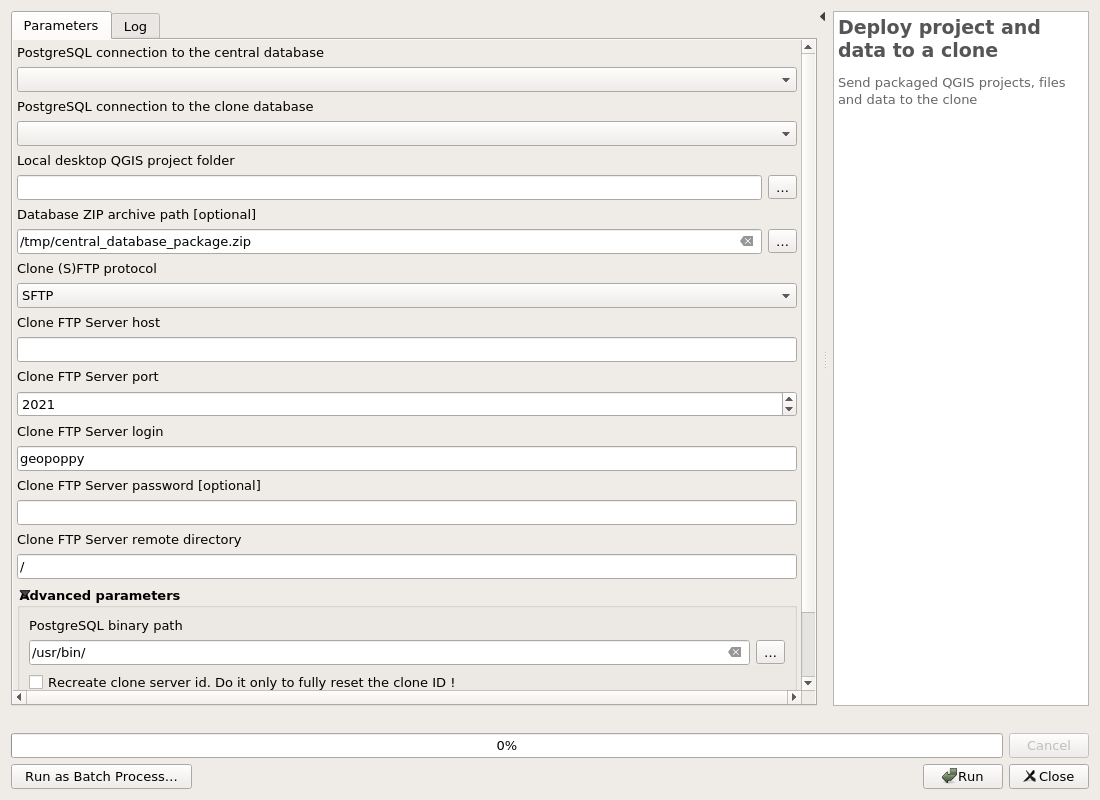
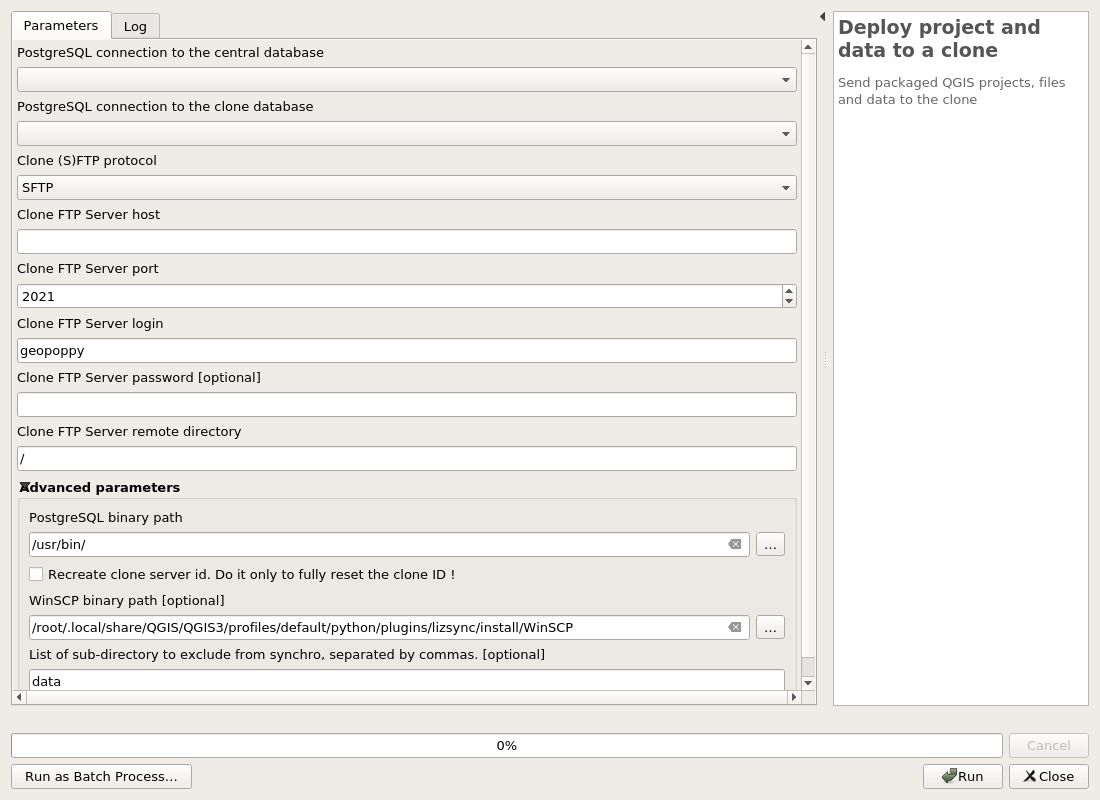
Deploy all - Use the current project instead of asking for the directory & zip paths

diff --git a/lizsync/processing/algorithms/deploy_all.py b/lizsync/processing/algorithms/deploy_all.py
@@ -14,7 +14,7 @@ __date__ = '2018-12-19'
 __copyright__ = '(C) 2018 by 3liz'
 
 import os
-import tempfile
+
 from platform import system as psys
 
 from qgis.core import (
@@ -50,9 +50,7 @@ class DeployAll(BaseProcessingAlgorithm):
     CONNECTION_NAME_CLONE = 'CONNECTION_NAME_CLONE'
 
     POSTGRESQL_BINARY_PATH = 'POSTGRESQL_BINARY_PATH'
-    LOCAL_QGIS_PROJECT_FOLDER = 'LOCAL_QGIS_PROJECT_FOLDER'
     RECREATE_CLONE_SERVER_ID = 'RECREATE_CLONE_SERVER_ID'
-    ZIP_FILE = 'ZIP_FILE'
 
     WINSCP_BINARY_PATH = 'WINSCP_BINARY_PATH'
     CLONE_FTP_PROTOCOL = 'CLONE_FTP_PROTOCOL'
@@ -174,34 +172,6 @@ class DeployAll(BaseProcessingAlgorithm):
         param.setFlags(param.flags() | QgsProcessingParameterDefinition.FlagAdvanced)
         self.addParameter(param)
 
-        # Local directory containing the files to send to the clone by FTP
-        local_qgis_project_folder = ls.variable('local/qgis_project_folder')
-        param =QgsProcessingParameterFile(
-            self.LOCAL_QGIS_PROJECT_FOLDER,
-            tr('Local desktop QGIS project folder'),
-            defaultValue=local_qgis_project_folder,
-            behavior=QgsProcessingParameterFile.Folder,
-            optional=False
-        )
-        self.addParameter(param)
-
-        # Database ZIP archive file
-        database_archive_file = ls.variable('general/database_archive_file')
-        if not database_archive_file:
-            database_archive_file = os.path.join(
-                tempfile.gettempdir(),
-                'central_database_package.zip'
-            )
-        param = QgsProcessingParameterFile(
-            self.ZIP_FILE,
-            tr('Database ZIP archive path'),
-            defaultValue=database_archive_file,
-            behavior=QgsProcessingParameterFile.File,
-            optional=True,
-            extension='zip'
-        )
-        self.addParameter(param)
-
         # Recreate clone server id
         param = QgsProcessingParameterBoolean(
             self.RECREATE_CLONE_SERVER_ID,
@@ -250,6 +220,8 @@ class DeployAll(BaseProcessingAlgorithm):
 
         # port
         clone_ftp_port = ls.variable('ftp:clone/port')
+        if not clone_ftp_port:
+            clone_ftp_port = '8022'
         param = QgsProcessingParameterNumber(
             self.CLONE_FTP_PORT,
             tr('Clone FTP Server port'),
@@ -278,6 +250,8 @@ class DeployAll(BaseProcessingAlgorithm):
 
         # remote directory
         clone_ftp_remote_dir = ls.variable('ftp:clone/remote_directory')
+        if not clone_ftp_remote_dir:
+            clone_ftp_remote_dir = 'storage/downloads/qgis/'
         param = QgsProcessingParameterString(
             self.CLONE_FTP_REMOTE_DIR,
             tr('Clone FTP Server remote directory'),
@@ -314,6 +288,24 @@ class DeployAll(BaseProcessingAlgorithm):
 
     def checkParameterValues(self, parameters, context):
 
+        # Check current project has a file
+        path = context.project().absoluteFilePath()
+        if not path:
+            msg = tr('You must save the current project before running this algorithm')
+            return False, msg
+
+        # Check the current project has been exported
+        project = context.project()
+        project_directory = project.absolutePath()
+        output_directory = project_directory + '/' + project.baseName() + '_mobile'
+        if not os.path.isdir(output_directory):
+            msg = tr(
+                'The current project has not been exported to a mobile version.'
+                ' You need to use the algorithm "Package project and data from the central server"'
+                ' (Procesing algorithm id: lizync.package_all)'
+            )
+            return False, msg
+
         # Check FTP binary
         status, msg = checkFtpBinary()
         if not status:
@@ -334,16 +326,9 @@ class DeployAll(BaseProcessingAlgorithm):
             return False, tr('The needed PostgreSQL binaries cannot be found in the specified path')
 
         # Check zip archive path
-        database_archive_file = self.parameterAsString(parameters, self.ZIP_FILE, context)
+        database_archive_file = os.path.join(output_directory, 'lizsync.zip')
         if not os.path.exists(database_archive_file):
-            database_archive_file = os.path.join(
-                tempfile.gettempdir(),
-                'central_database_package.zip'
-            )
-        ok = os.path.exists(database_archive_file)
-        if not ok:
             return False, tr("The ZIP archive does not exists in the specified path") + ": {0}".format(database_archive_file)
-        parameters[self.ZIP_FILE] = database_archive_file
 
         # Check connections
         connection_name_central = parameters[self.CONNECTION_NAME_CENTRAL]
@@ -368,12 +353,18 @@ class DeployAll(BaseProcessingAlgorithm):
             self.OUTPUT_STRING: msg
         }
 
+        # Get current project needed information
+        project = context.project()
+        project_directory = project.absolutePath()
+        output_directory = project_directory + '/' + project.baseName() + '_mobile'
+
         # Deploy database server package
+        database_archive_file = os.path.join(output_directory, 'lizsync.zip')
         params = {
             'CONNECTION_NAME_CENTRAL': parameters[self.CONNECTION_NAME_CENTRAL],
             'CONNECTION_NAME_CLONE': parameters[self.CONNECTION_NAME_CLONE],
             'POSTGRESQL_BINARY_PATH': parameters[self.POSTGRESQL_BINARY_PATH],
-            'ZIP_FILE': parameters[self.ZIP_FILE],
+            'ZIP_FILE': database_archive_file,
             'RECREATE_CLONE_SERVER_ID': parameters[self.RECREATE_CLONE_SERVER_ID],
         }
         processing.run(
@@ -404,7 +395,8 @@ class DeployAll(BaseProcessingAlgorithm):
 
         # Send projects and files to clone FTP
         params = {
-            'LOCAL_QGIS_PROJECT_FOLDER': parameters[self.LOCAL_QGIS_PROJECT_FOLDER],
+            'LOCAL_QGIS_PROJECT_FOLDER': project_directory,
+            'WINSCP_BINARY_PATH': parameters[self.WINSCP_BINARY_PATH],
             'CLONE_FTP_PROTOCOL': parameters[self.CLONE_FTP_PROTOCOL],
             'CLONE_FTP_HOST': parameters[self.CLONE_FTP_HOST],
             'CLONE_FTP_PORT': parameters[self.CLONE_FTP_PORT],

diff --git a/lizsync/processing/algorithms/tools.py b/lizsync/processing/algorithms/tools.py
@@ -343,8 +343,10 @@ def run_command(cmd, myenv, feedback):
             env=myenv,
             universal_newlines=True,
             encoding='utf8',
-            text=True,
+            # not available in old versios of Python 3
+            # text=True,
         )
+
     stdout = []
     while proc.poll() is None:
         for line in proc.stdout:

diff --git a/docs/processing/README.md b/docs/processing/README.md
@@ -56,6 +56,7 @@ OUTPUT_STRING|Output message|String||
 | ID | Description | Type | Info | Required | Advanced | Option |
 |:-:|:-:|:-:|:-:|:-:|:-:|:-:|
 LOCAL_QGIS_PROJECT_FOLDER|Local desktop QGIS project folder|File||✓|||
+WINSCP_BINARY_PATH|WinSCP binary path|File|||✓|Default: /root/.local/share/QGIS/QGIS3/profiles/default/python/plugins/lizsync/install/WinSCP <br> |
 CLONE_FTP_PROTOCOL|Clone (S)FTP protocol|Enum||✓||Values: SFTP, FTP <br>|
 CLONE_FTP_HOST|Clone FTP Server host|String||✓|||
 CLONE_FTP_PORT|Clone FTP Server port|Number||✓||Default: 2021 <br> Type: Integer<br> Min: -1.7976931348623157e+308, Max: 1.7976931348623157e+308 <br>|
@@ -189,9 +190,8 @@ OUTPUT_STRING|Output message|String||
 CONNECTION_NAME_CENTRAL|PostgreSQL connection to the central database|String|The PostgreSQL connection to the central database.|✓|||
 CONNECTION_NAME_CLONE|PostgreSQL connection to the clone database|String|The PostgreSQL connection to the clone database.|✓|||
 POSTGRESQL_BINARY_PATH|PostgreSQL binary path|File||✓|✓|Default: /usr/bin/ <br> |
-LOCAL_QGIS_PROJECT_FOLDER|Local desktop QGIS project folder|File||✓|||
-ZIP_FILE|Database ZIP archive path|File||||Default: /tmp/central_database_package.zip <br> |
 RECREATE_CLONE_SERVER_ID|Recreate clone server id. Do it only to fully reset the clone ID !|Boolean||✓|✓||
+WINSCP_BINARY_PATH|WinSCP binary path|File|||✓|Default: /root/.local/share/QGIS/QGIS3/profiles/default/python/plugins/lizsync/install/WinSCP <br> |
 CLONE_FTP_PROTOCOL|Clone (S)FTP protocol|Enum||✓||Values: SFTP, FTP <br>|
 CLONE_FTP_HOST|Clone FTP Server host|String||✓|||
 CLONE_FTP_PORT|Clone FTP Server port|Number||✓||Default: 2021 <br> Type: Integer<br> Min: -1.7976931348623157e+308, Max: 1.7976931348623157e+308 <br>|

diff --git a/CHANGELOG.md b/CHANGELOG.md
@@ -2,6 +2,7 @@
 
 ## 0.5.1 - 2021-03-15
 
+* Deploy all - Use the current project instead of asking for the directory & zip paths
 * Fix SFTP sync & PostgreSQL dump algorithms in Windows context
 * Add the Synchronize database button in the main tab of the dock
 
